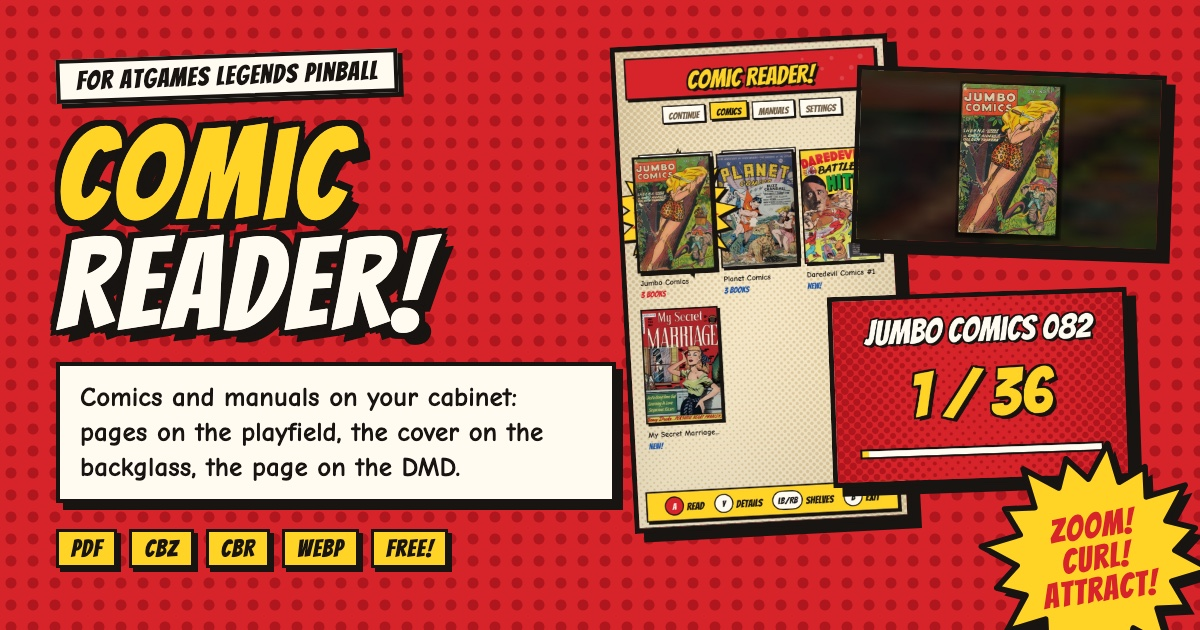
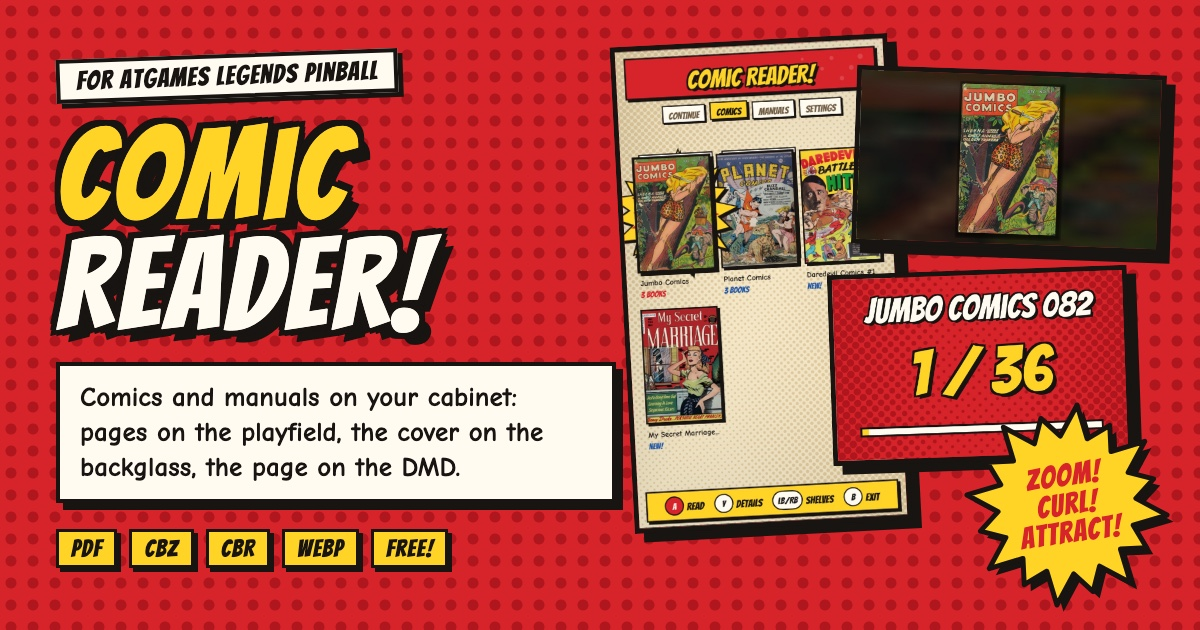
Link preview: the starburst whole, inside the image

Changed region(s): [[0.6783, 0.4222, 1.0, 1.0]]

diff --git a/docs/og.html b/docs/og.html
@@ -19,11 +19,11 @@ h1 span { color: #fffbf0; }
 .shot { position: absolute; border: 5px solid #181412; box-shadow: 9px 9px 0 #181412; background: #181412; display: block; }
 .play { right: 300px; top: 40px; width: 268px; transform: rotate(-3deg); }
 .glass { right: 36px; top: 70px; width: 300px; transform: rotate(2deg); }
-.dmd { right: 70px; top: 292px; width: 290px; transform: rotate(-2deg); }
-.burst { position: absolute; right: -14px; bottom: -46px; width: 236px; height: 236px; }
+.dmd { right: 70px; top: 270px; width: 290px; transform: rotate(-2deg); }
+.burst { position: absolute; right: 30px; bottom: 22px; width: 206px; height: 206px; }
 .burst svg { width: 100%; height: 100%; overflow: visible; }
 .burst .t { position: absolute; inset: 0; display: flex; align-items: center; justify-content: center; text-align: center;
-  font: 34px/0.95 Bangers, Impact, sans-serif; letter-spacing: .04em; color: #d6242a; transform: rotate(-8deg); }
+  font: 30px/0.95 Bangers, Impact, sans-serif; letter-spacing: .04em; color: #d6242a; transform: rotate(-8deg); }
 </style></head><body>
 <div class="og">
   <div class="left">
